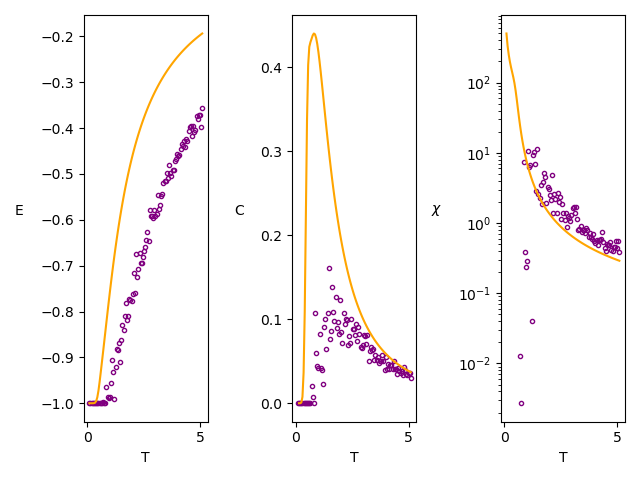
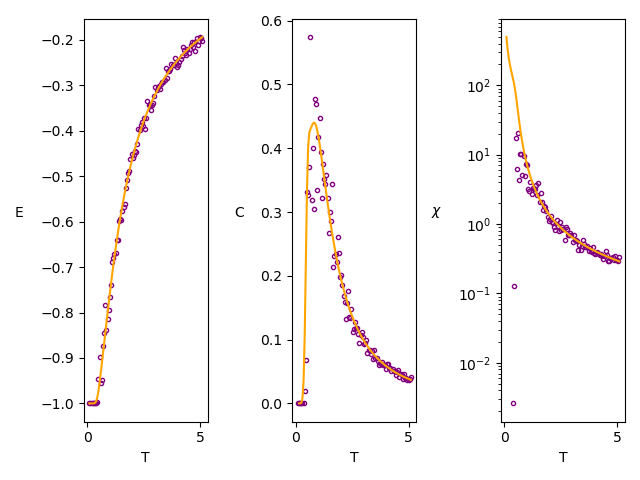
reran sim with a fix

diff --git a/ising_analytical.py b/ising_analytical.py
@@ -12,7 +12,7 @@ def magnetization(state):
     return np.sum(state)
 
 def transition_probability(delta_energy,n,T):
-    return np.min([1, np.exp(-delta_energy/T)/np.exp(delta_energy/T)])
+    return np.min([1, np.exp(-delta_energy/T)])
 
 def metropolis(n):
     temp_array = np.linspace(0.1, 5.1, 100)[::-1]
